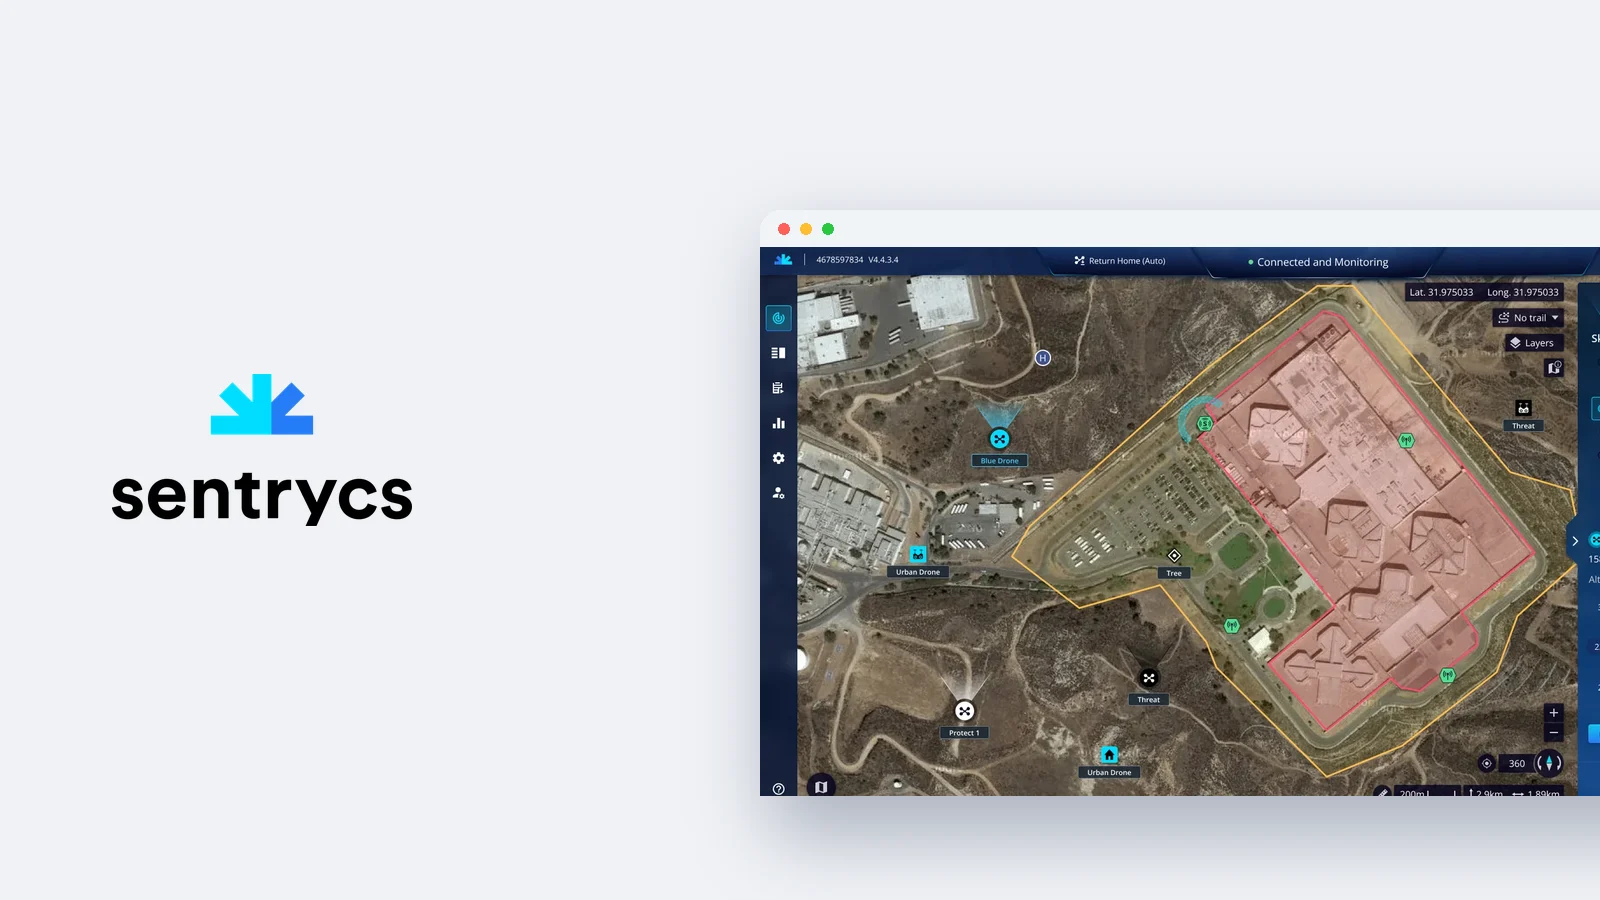
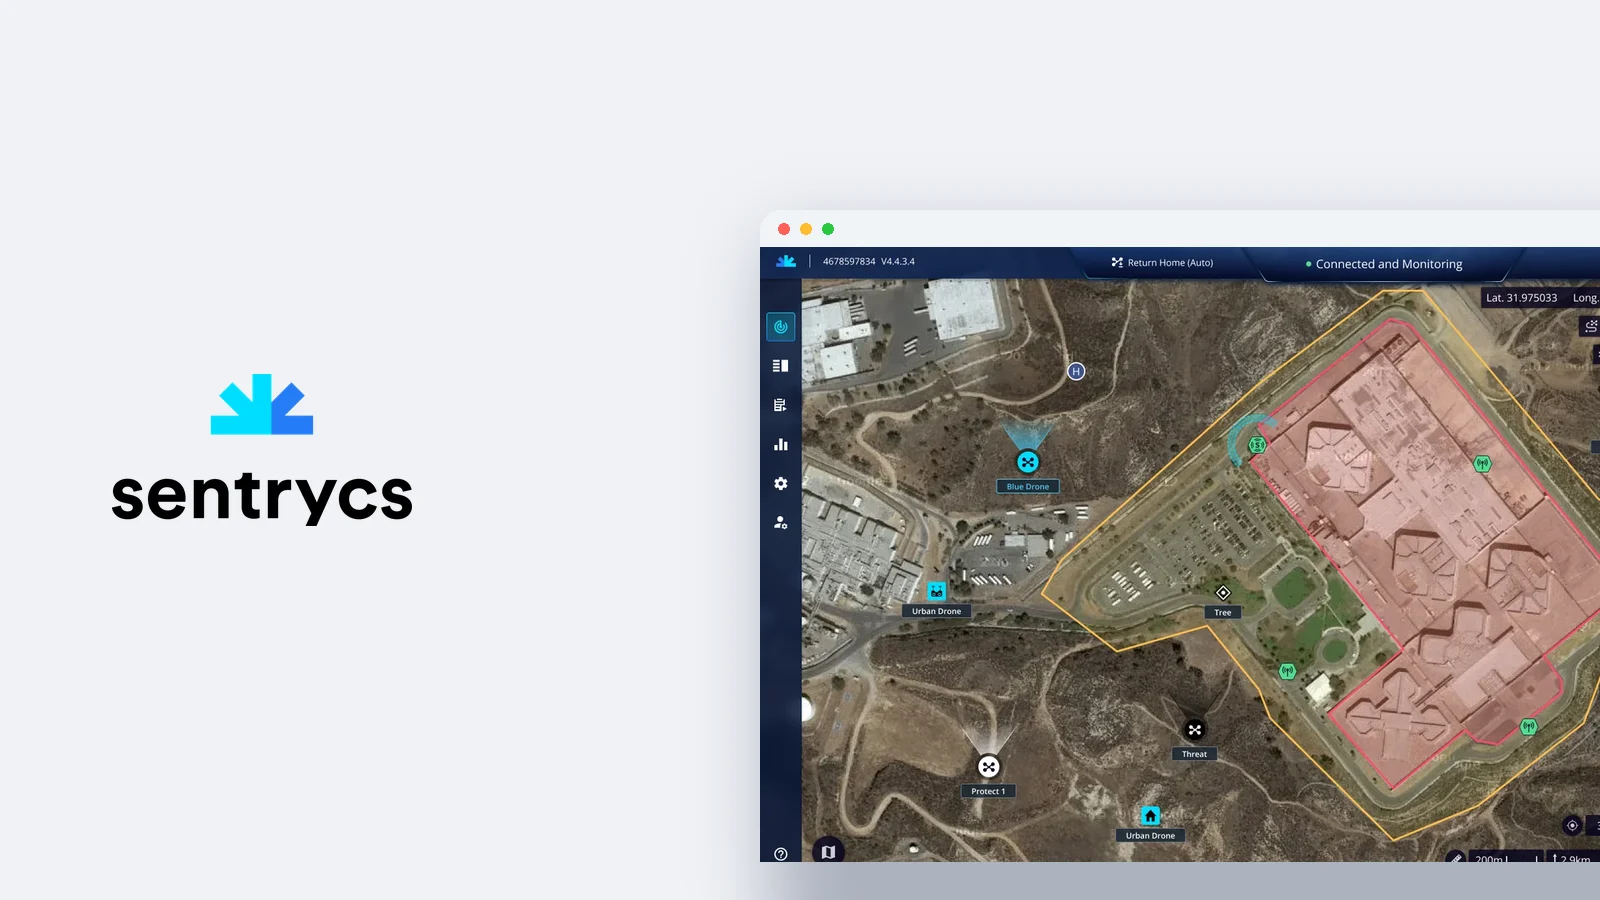
Covers: one window height across every card, sized by height not width
Claude-Session: https://claude.ai/code/session_01U3LnkADmWK6BWBvsiVpdjW

Changed region(s): [[0.4688, 0.28, 1.0, 1.0]]

diff --git a/scripts/client-covers.py b/scripts/client-covers.py
@@ -14,12 +14,17 @@ ROOT = Path(__file__).resolve().parent.parent
 IMG = ROOT / 'public' / 'images'
 LOGO = Path(__file__).resolve().parent / 'assets'
 W, H = 1600, 900
+SCREEN_H = 616        # one window height across every cover
 
 
-def window(shot, width, radius=20, bar=36):
-    """Put a screenshot in a light browser chrome; returns the image and its rounded mask."""
-    h = int(shot.height * width / shot.width)
-    shot = shot.resize((width, h), Image.LANCZOS)
+def window(shot, screen_h, radius=20, bar=36):
+    """Put a screenshot in a light browser chrome; returns the image and its rounded mask.
+
+    Sized by HEIGHT, not width, so every cover's window is exactly the same height no matter
+    the screenshot's aspect ratio. The extra width just runs further off the right edge."""
+    width = int(shot.width * screen_h / shot.height)
+    shot = shot.resize((width, screen_h), Image.LANCZOS)
+    h = screen_h
     win = Image.new('RGB', (width, h + bar), (255, 255, 255))
     win.paste(shot, (0, bar))
     d = ImageDraw.Draw(win)
@@ -49,7 +54,7 @@ def put_logo(cv, path, width, x, cy):
 
 def build(bg, shot_path, logo_name, logo_width, logo_x, logo_cy, shadow, out):
     cv = Image.new('RGB', (W, H), bg)
-    win, mask = window(Image.open(shot_path).convert('RGB'), 1120)
+    win, mask = window(Image.open(shot_path).convert('RGB'), SCREEN_H)
     cv = place(cv, win, mask, 760, 210, shadow)
     put_logo(cv, LOGO / logo_name, logo_width, logo_x, logo_cy)
     cv.save(IMG / f'{out}-1600.webp', quality=86)

diff --git a/scripts/afimilk-covers.py b/scripts/afimilk-covers.py
@@ -14,6 +14,7 @@ import numpy as np
 ROOT = Path(__file__).resolve().parent.parent
 IMG = ROOT / 'public' / 'images'
 W, H = 1600, 900
+SCREEN_H = 616        # matches scripts/client-covers.py
 BG = (40, 123, 172)          # Afimilk brand blue, sampled from their own artwork
 GOLD = (252, 176, 13)
 CYAN = (75, 214, 244)
@@ -91,8 +92,9 @@ print('wrote farmers')
 # ---- Herd: the Daily Tasks screen in a browser window ----
 cv = base()
 shot = Image.open(ROOT / 'scripts' / 'assets' / 'herd-daily-tasks.png').convert('RGB')
-ww, bar = 1100, 36
-shot = shot.resize((ww, int(shot.height * ww / shot.width)), Image.LANCZOS)
+bar = 36
+ww = int(shot.width * SCREEN_H / shot.height)   # same window height as the other covers
+shot = shot.resize((ww, SCREEN_H), Image.LANCZOS)
 win = Image.new('RGB', (ww, shot.height + bar), (255, 255, 255))
 win.paste(shot, (0, bar))
 d = ImageDraw.Draw(win)
